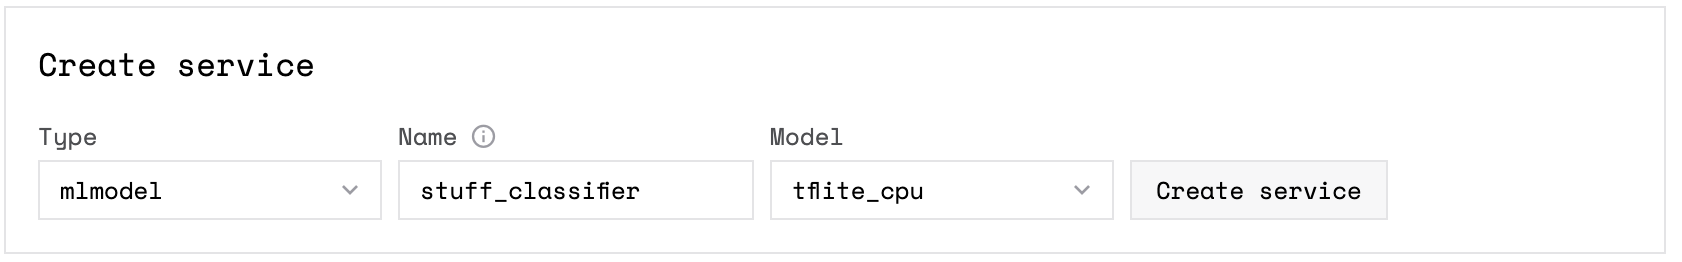
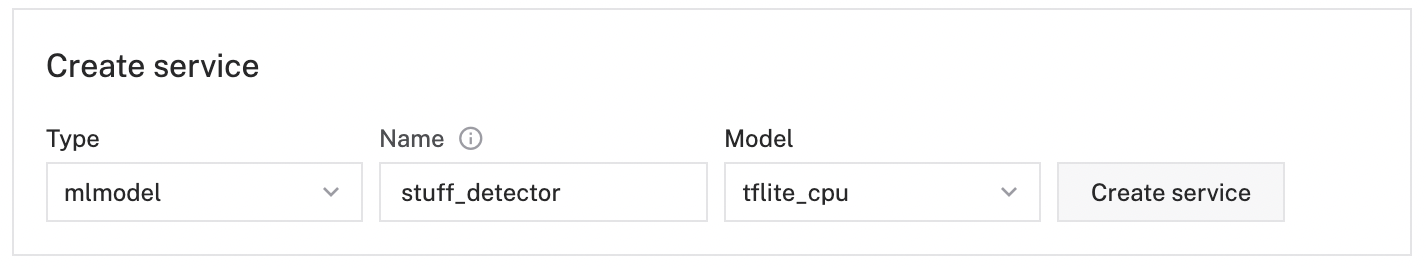
update to detector

diff --git a/docs/tutorials/projects/integrating-viam-with-openai.md b/docs/tutorials/projects/integrating-viam-with-openai.md
@@ -108,7 +108,7 @@ The [git repository](https://github.com/viam-labs/tutorial-openai-integration) f
 * [Google text/speech tools](https://gtts.readthedocs.io/en/latest/)
 * [OpenAI](https://openai.com/api/)
 
-It also contains an open source machine learning [classifier model](https://tfhub.dev/google/lite-model/imagenet/mobilenet_v3_large_100_224/classification/5/metadata/1).
+It also contains an open source machine learning [detector model](https://github.com/viam-labs/tutorial-openai-integration/tree/main/detector).
 
 Power on  and choose a location on your Raspberry Pi, and clone the tutorial code repository.
 If you have git installed on your Pi, run the following command in the preferred directory from your terminal:
@@ -172,7 +172,7 @@ chmod +x run.sh
 Now that we've set up the rover by attaching the servo and making the tutorial software available on the Pi, we can configure the rover to:
 
 * Recognize and operate the servo
-* Make the ML classifier model available for use by the Viam Vision Service
+* Make the ML detector model available for use by the Viam Vision Service
 
 ### 1. Configure the servo
 
@@ -205,10 +205,10 @@ We found that if set up this way, the following positions accurately show the co
 * angry: 75 degrees
 * sad: 157 degrees
 
-### 2. Configure the ML Model and Vision Services to use the classifier
+### 2. Configure the ML Model and Vision Services to use the detector
 
 Click the **Config** tab and then the **Services** subtab.
-From there, scroll to the bottom and create a new service of **type** `ML Models`, **model** `tflite_cpu` named 'stuff-classifier'.
+From there, scroll to the bottom and create a new service of **type** `ML Models`, **model** `tflite_cpu` named 'stuff-detector'.
 Your robot will register this as a machine learning model and make it available for use.
 
 <img src="../../img/ai-integration/mlmodels_service_add.png" style="border:1px solid #000" alt="Adding the ML Models Service." title="Adding the ML Models Service." width="500" />
@@ -219,22 +219,22 @@ Update the **Model Path** and **Label Path** to match where you [copied the tuto
 For example, the model path would would be similar to:
 
 ``` bash
-/home/<username>/tutorial-openai-integration/lite-model_imagenet_mobilenet_v3_large_075_224_classification_5_metadata_1.tflite
+/home/<username>/tutorial-openai-integration/detector/effdet0.tflite
 ```
 
 and the label path similar to:
 
 ``` bash
-/home/<username>/tutorial-openai-integration/labels.txt
+/home/<username>/tutorial-openai-integration/detector/labels.txt
 ```
 
-Now, create a new service of **type** `vision`, **model** `ML Model` named 'vis-stuff-classifier'.
-Your companion robot will use this to interface with the machine learning model (trained using the [ImageNet image database](https://www.image-net.org/)) allowing you to - well, classify stuff!
+Now, create a new service of **type** `vision`, **model** `ML Model` named 'vis-stuff-detector'.
+Your companion robot will use this to interface with the machine learning model allowing you to - well, detect stuff!
 
 <img src="../../img/ai-integration/vision_service_add.png" style="border:1px solid #000" alt="Adding the Vision Service." title="Adding the Vision Service." width="500" />
 
 Select the model that you added in the previous step.
-Click **Save config** to finish adding the classifier.
+Click **Save config** to finish adding the detector.
 
 ## Bring "Rosey" to life
 
@@ -257,14 +257,14 @@ For example, there are a number of commands that will cause the rover to move - 
 <div class="td-max-width-on-larger-screens">
 <img src="../../img/ai-integration/yoda.jpeg" class="alignleft" alt="Viam Rover Rosey." title="Viam Rover Rosey." style="max-width: 300px" />
 
-If you ask *"what do you see"*, it will use the rover's camera and a machine learning model to view the world, classify what it sees, and then read a ChatGPT-generated response about what it sees.
+If you ask *"what do you see"*, it will use the rover's camera and a machine learning model to view the world, detect what it sees, and then read a ChatGPT-generated response about what it sees.
 Also, a "mood" will be selected at random, and the response will be generated with that mood.
 
 The GPT-3 model is quite good at responding in the style of known personas, so you can also say *"Hey Rosey, act like Yoda"*, and from that point on, responses will be generated in the style of Yoda! The tutorial code has a number of characters you can try, and to pick one randomly, you can say *"Rosey, act random"*.
 You can even guess who Rosey is acting like by saying *"Rosey, I think you are Scooby Doo!"*
 
 Much of Rosey's behavior can be modified by changing the values of parameters in the tutorial code's [params.py](https://github.com/viam-labs/tutorial-openai-integration/blob/main/params.py) file.
-You can change Rosey's name to something else, add characters, adjust the classifier confidence threshold, and more.
+You can change Rosey's name to something else, add characters, adjust the detector confidence threshold, and more.
 </div>
 
 ## Use realistic custom AI voices
